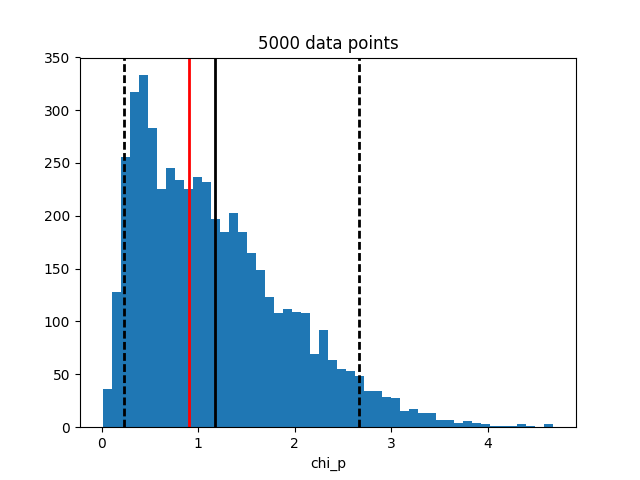
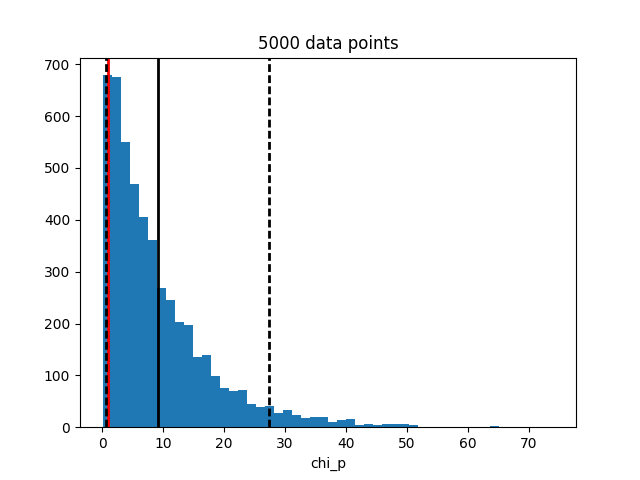
Fixed bug with chi_p posterior not calculating properly

diff --git a/Inference/postMulti.py b/Inference/postMulti.py
@@ -110,8 +110,8 @@ def chi_prec():
    q=1./q ## <<---------- mass ratio flip, only do this once
 
    ## Find Bs   
-   B1=2.+(3./(2.*q))
-   B2=2.+((3.*q)/2.)
+   B1=2.+(3.*q/(2.))
+   B2=2.+(3./(2.*q))
    
    ## Find in-plane spin magnitudes
    s1_perp=m1*m1*s1_a*np.sin(s1_polar)
